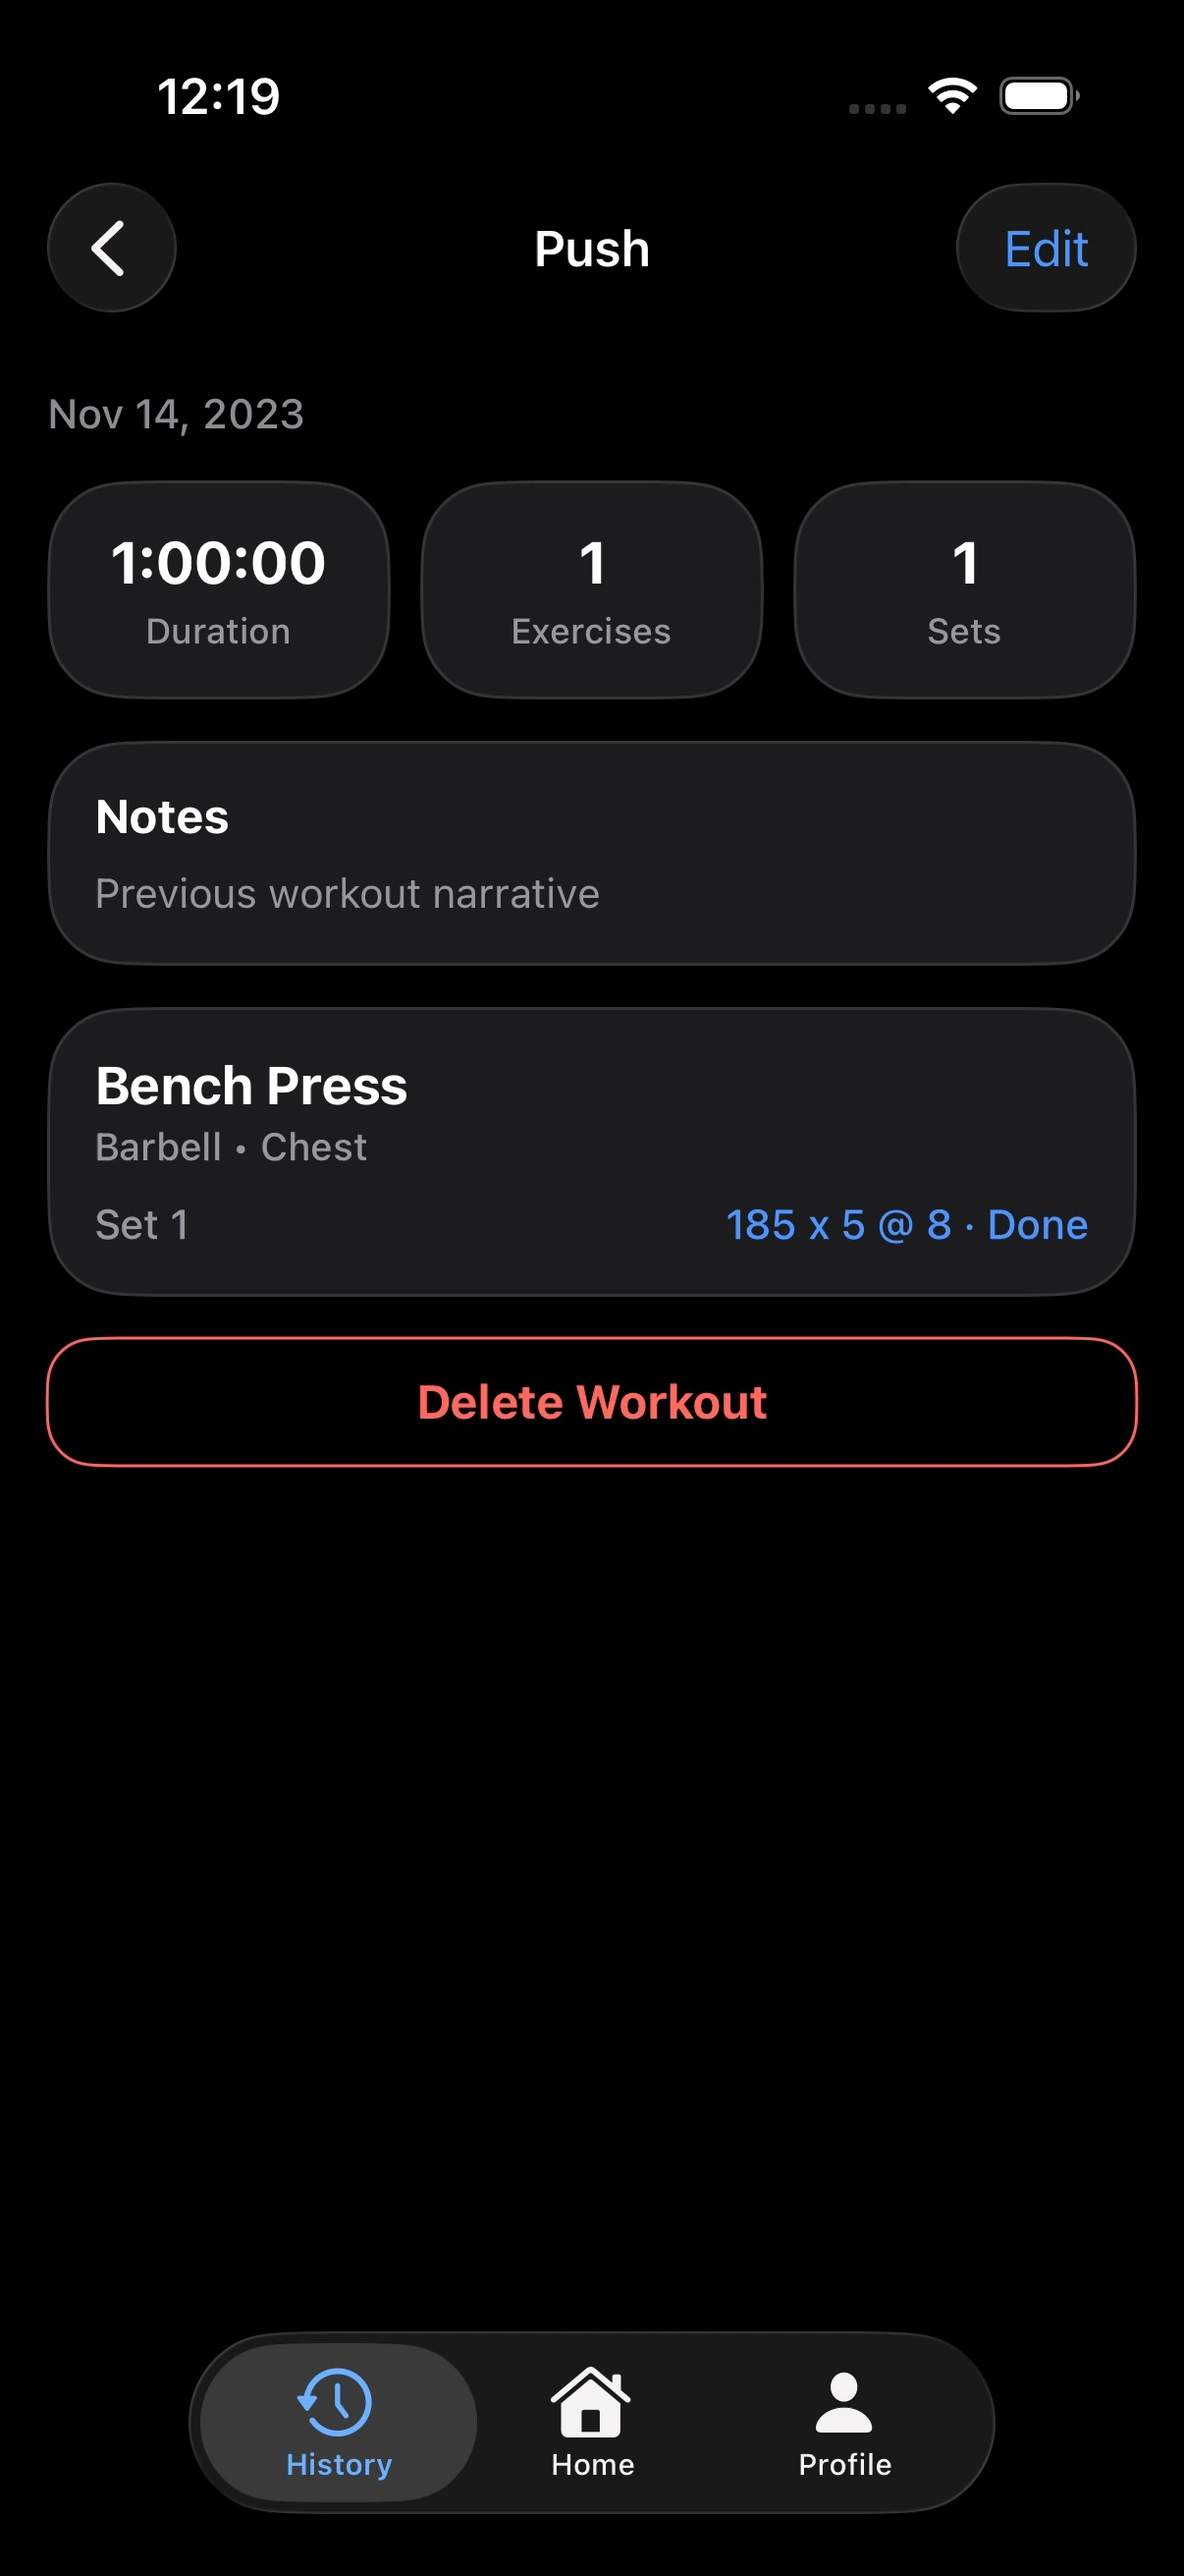
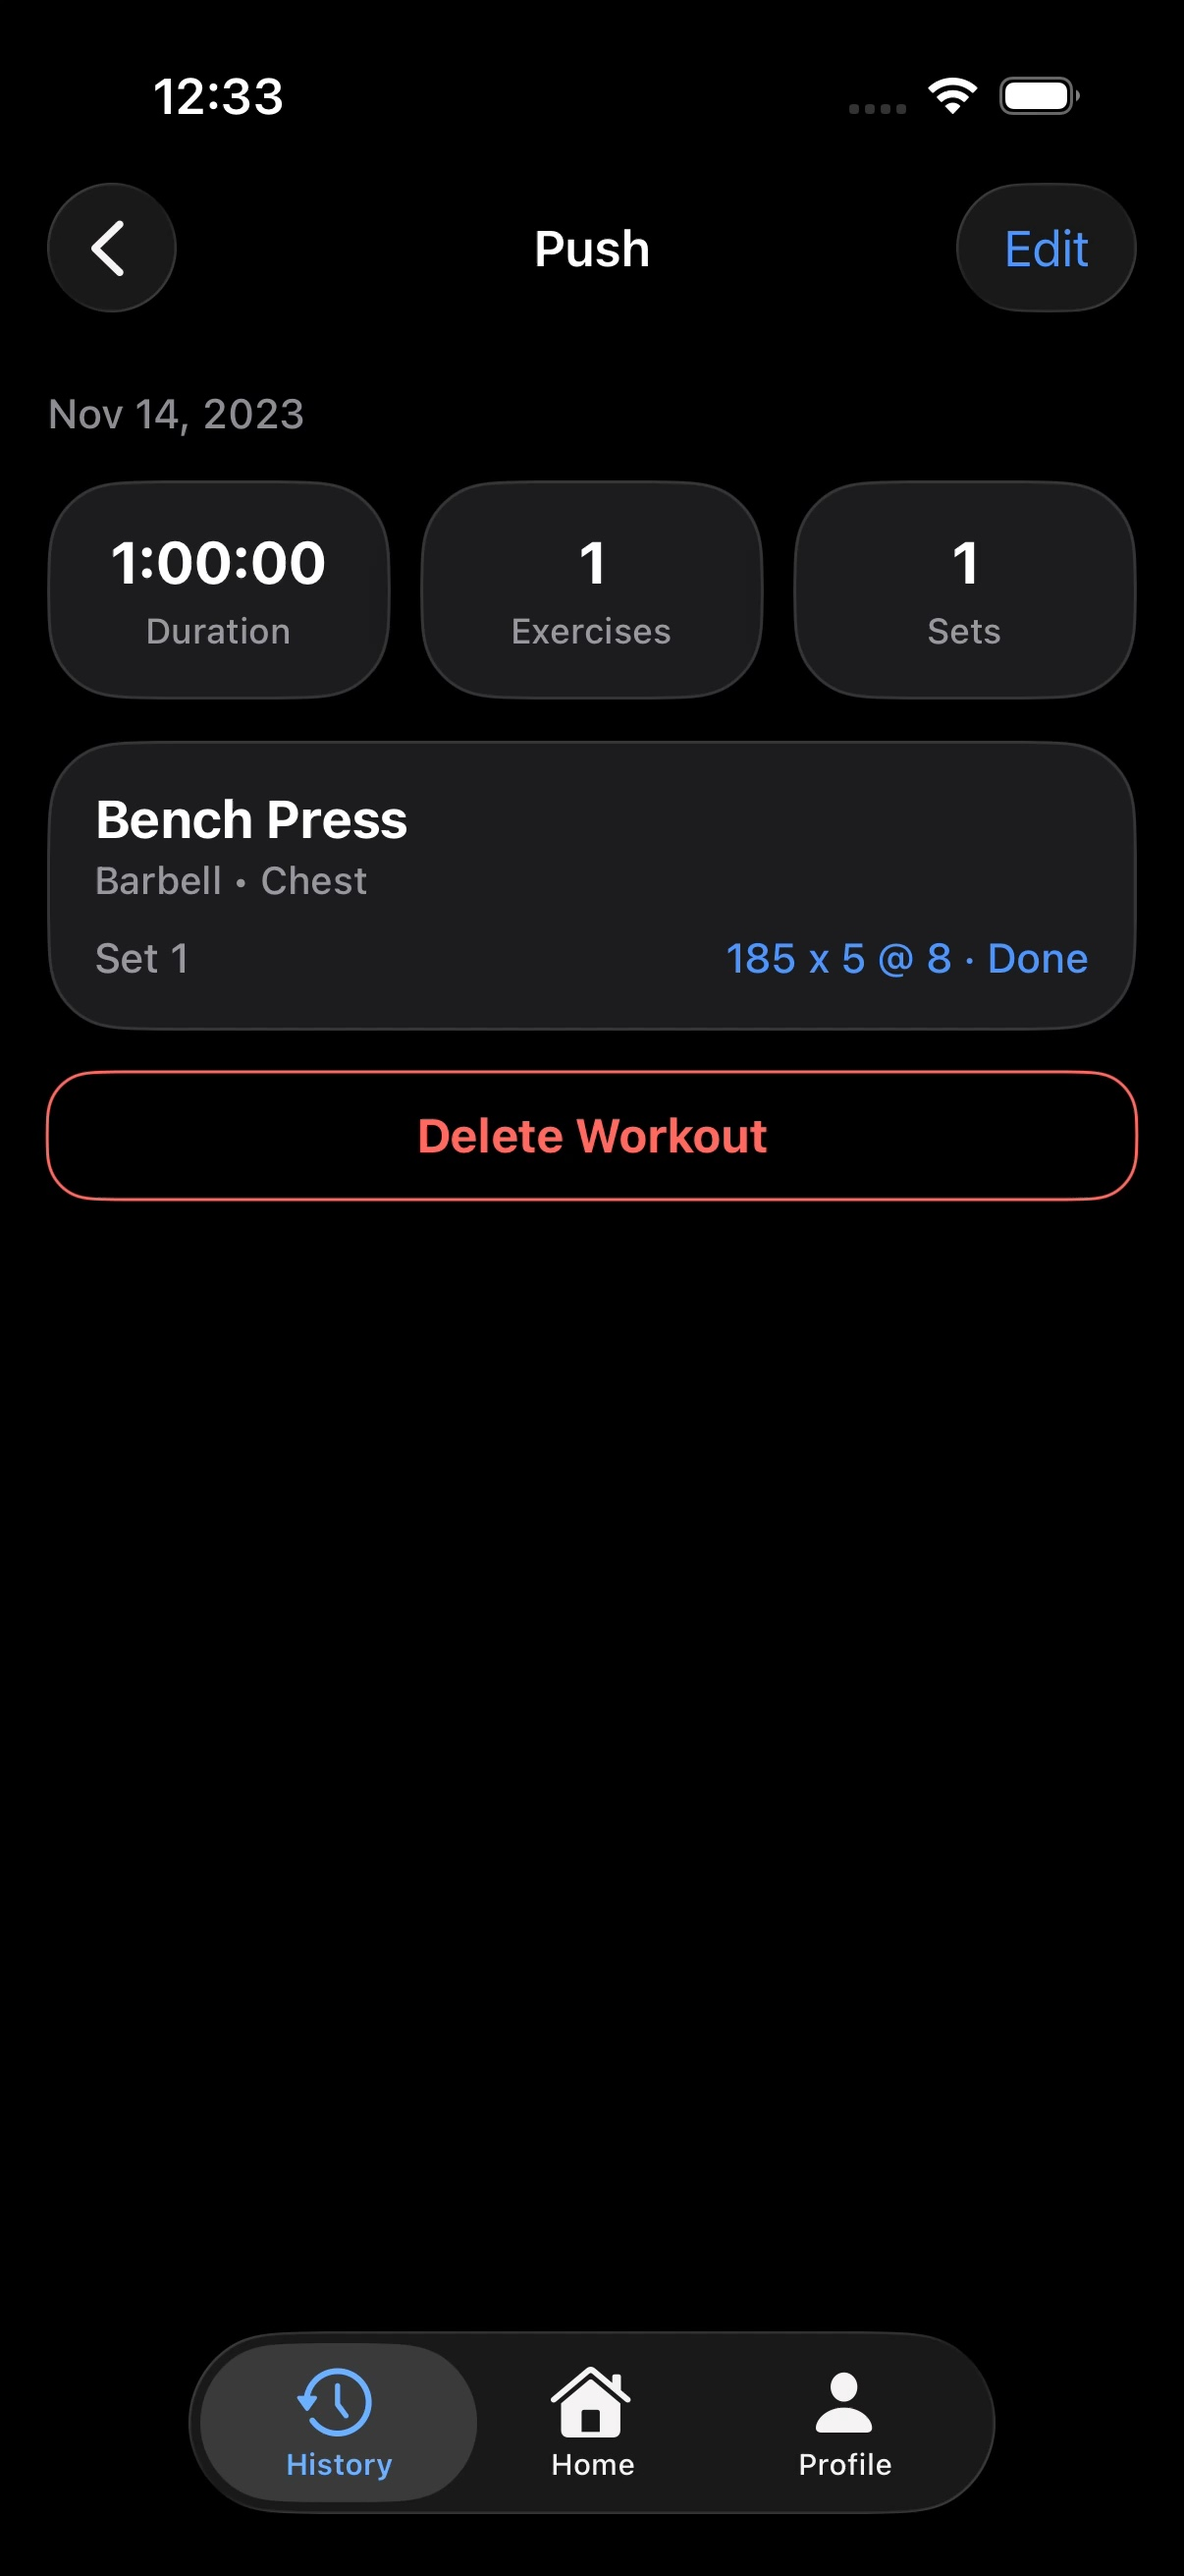
Address site identity review findings

diff --git a/SupportSite/src/styles/global.css b/SupportSite/src/styles/global.css
@@ -7,7 +7,7 @@
   --color-border: #d9d7d2;
   --color-link: #1c66c7;
   --color-accent: #1c66c7;
-  --color-accent-on-dark: #f3ebe7;
+  --color-focus-on-dark: #5b9cff;
   --color-brand-silver: #f3ebe7;
   --color-dark-muted: #b7bbc1;
   --color-dark: #09121d;
